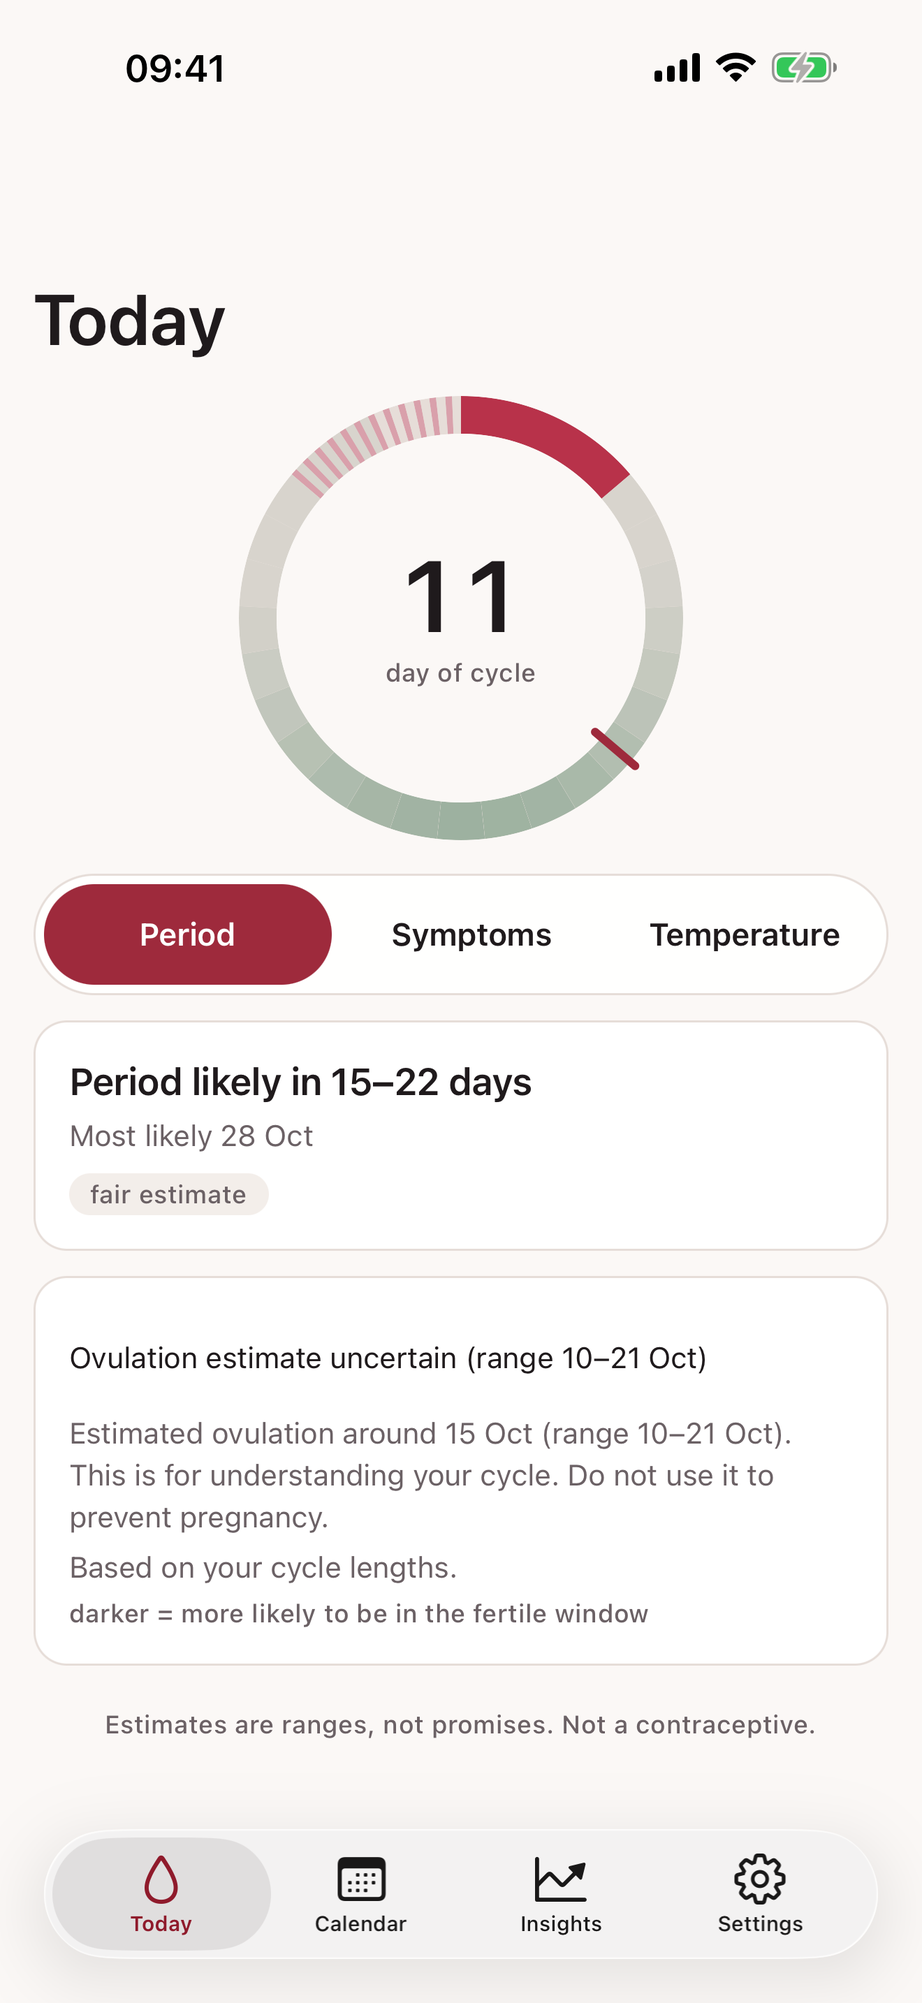
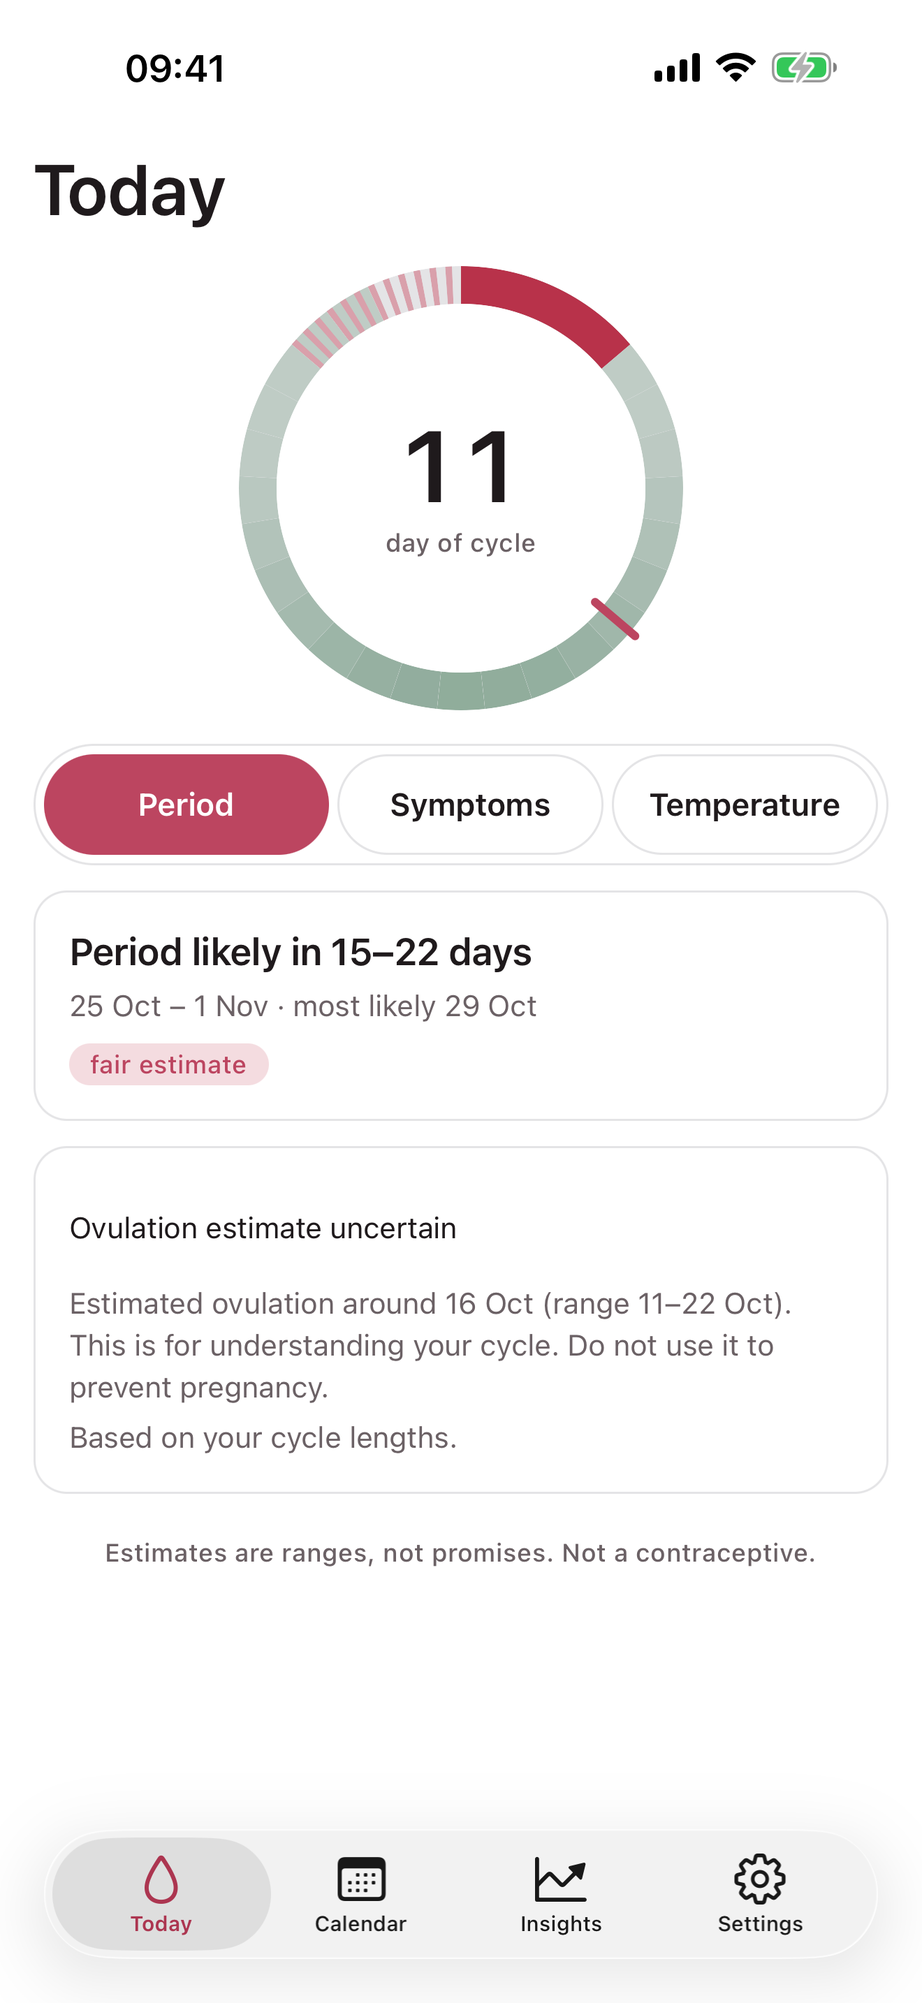
D-076 UI pass from the 2026-10-10 review: double top inset, one text-button style, estimate title, fertile band floor, sparse charts, settings subtitles, native dark mode
ui-ux-review.md items (dispositions in docs/review/action-plan.md):
- Screen: iOS no longer pads the top safe area on top of contentInsetAdjustmentBehavior (U-1)
- Button: text kind in the accent, left-aligned, 44 pt; disabled at 50% (U-2, U-3, U-27); accent chevrons on calendar and log sheet (U-14)
- Today: estimate title is the confidence word only, dates once in the fixed sentence (U-7); legend line only on Calendar (U-4); date range under the headline (U-8, widget follows); hairline on plain quick-log actions (U-9); accent confidence chip (U-11)
- Fertile band: ui/fertileAlpha.ts display floor 0.2 + 0.8p in ring and calendar underline; engine p(d) unchanged (U-10, U-19)
- Calendar legend hides the ovulation marker when none is drawn (U-18)
- Insights: sparse-chart thresholds with a quiet line (U-22); "day N so far", accent chips for unusual cycles (U-23)
- Settings root subtitles (U-30); ThemeProvider sets Appearance.setColorScheme so native views follow the theme (U-5)
- Symptom dots scale with text, visible hold hint (U-15); "I don't know" as a secondary button (U-29)
- Day detail alert button "Delete entry"; Natural Cycles import reports skipped notes (I-16)
- Maestro: flows updated for the new copy; insights scrolls to the pregnancy button; discretion re-dismisses the icon alert
- biome: apps/site astro paths excluded

Full iOS suite green (discretion on rerun); screenshots in docs/screenshots/D-076-devclient and D-076-suite-devclient.

diff --git a/apps/mobile/src/app/(tabs)/insights.tsx b/apps/mobile/src/app/(tabs)/insights.tsx
@@ -18,6 +18,9 @@ import { Segmented } from '@/ui/Segmented';
 import { Text } from '@/ui/Text';
 
 type Tab = 'history' | 'charts' | 'accuracy';
+// below these a chart is two dots on an empty axis and reads as broken (U-22, D-076)
+const MIN_LENGTH_POINTS = 2; // two closed cycles already show the band (insights.needTwo)
+const MIN_TEMP_POINTS = 6;
 
 export default function InsightsScreen() {
   const t = useTheme();
@@ -44,9 +47,10 @@ export default function InsightsScreen() {
   const acc = accuracyText(ledger);
   const empty = closed < 2;
 
+  // "typical" and "current" stay muted; anything unusual is outlined in the accent so it is seen (U-23)
   const chip = (q: string) => (
-    <View style={{ backgroundColor: t.chipBg, borderRadius: 999, paddingHorizontal: 10, paddingVertical: 2, alignSelf: 'flex-start' }}>
-      <Text variant="caption" color="textSecondary">{tr(`insights.quality.${q}`)}</Text>
+    <View style={{ backgroundColor: q === 'valid' ? t.chipBg : t.c.accentSoft, borderRadius: 999, paddingHorizontal: 10, paddingVertical: 2, alignSelf: 'flex-start' }}>
+      <Text variant="caption" color={q === 'valid' ? 'textSecondary' : 'accent'}>{tr(`insights.quality.${q}`)}</Text>
     </View>
   );
   return (
@@ -88,15 +92,17 @@ export default function InsightsScreen() {
         ) : (<>
           <Card testID="card-length">
             <Text variant="heading">{tr('insights.charts.cycleLength')}</Text>
-            <LengthChart series={series} />
-            <Text variant="caption" color="textSecondary">{tr('insights.chart.bandCaption')}</Text>
+            {series.points.length >= MIN_LENGTH_POINTS ? (<>
+              <LengthChart series={series} />
+              <Text variant="caption" color="textSecondary">{tr('insights.chart.bandCaption')}</Text>
+            </>) : <Text testID="chart-length-few" variant="bodySmall" color="textSecondary">{tr('insights.chart.fewLengths', { n: MIN_LENGTH_POINTS - series.points.length })}</Text>}
           </Card>
           <Card testID="card-temp">
             <Text variant="heading">{tr('insights.charts.temperature')}</Text>
-            {temps.points.length ? (<>
+            {temps.points.length >= MIN_TEMP_POINTS ? (<>
               <TempChart points={temps.points} coverline={temps.coverline === undefined ? undefined : fromC(temps.coverline, prefs.tempUnit)} unitLabel={`°${prefs.tempUnit}`} />
               {temps.coverline !== undefined ? <Text variant="caption" color="textSecondary">{tr('insights.chart.coverlineNote')}</Text> : null}
-            </>) : <Text variant="bodySmall" color="textSecondary">{tr('insights.chart.noTemps')}</Text>}
+            </>) : <Text testID="chart-temp-few" variant="bodySmall" color="textSecondary">{temps.points.length ? tr('insights.chart.fewTemps', { n: MIN_TEMP_POINTS - temps.points.length }) : tr('insights.chart.noTemps')}</Text>}
           </Card>
           <Card testID="card-phases">
             <Text variant="heading">{tr('insights.charts.symptomsByPhase')}</Text>

diff --git a/apps/mobile/src/app/(tabs)/settings.tsx b/apps/mobile/src/app/(tabs)/settings.tsx
@@ -26,11 +26,11 @@ export default function SettingsScreen() {
     <Screen testID="screen-settings" title={t('settings.title')}>
       <Group>
         <SettingsRow testID="settings-life" title={t('settings.lifeState.title')} description={life} onPress={go('/settings/lifestate')} />
-        <SettingsRow testID="settings-health" title={t('settings.health.title')} onPress={go('/settings/health')} />
-        <SettingsRow testID="settings-privacy" title={t('settings.privacy.title')} onPress={go('/settings/privacy')} />
-        <SettingsRow testID="settings-notifications" title={t('settings.notifications.title')} onPress={go('/settings/notifications')} />
+        <SettingsRow testID="settings-health" title={t('settings.health.title')} description={prefs.healthTypes.length ? t('settings.summary.healthN', { n: prefs.healthTypes.length }) : t('common.off')} onPress={go('/settings/health')} />
+        <SettingsRow testID="settings-privacy" title={t('settings.privacy.title')} description={`${t(prefs.appLock ? 'settings.summary.lockOn' : 'settings.summary.lockOff')} · ${t(prefs.cloudBackup ? 'settings.summary.backupOn' : 'settings.summary.backupOff')}`} onPress={go('/settings/privacy')} />
+        <SettingsRow testID="settings-notifications" title={t('settings.notifications.title')} description={t(prefs.notifications.period ? 'settings.summary.reminderOn' : 'settings.summary.reminderOff')} onPress={go('/settings/notifications')} />
         <SettingsRow testID="settings-appearance" title={t('settings.appearance.title')} description={t(`settings.appearance.theme${prefs.theme === 'system' ? 'System' : prefs.theme === 'light' ? 'Light' : 'Dark'}`)} onPress={go('/settings/appearance')} />
-        <SettingsRow testID="settings-tracking" title={t('settings.tracking.title')} onPress={go('/settings/tracking')} />
+        <SettingsRow testID="settings-tracking" title={t('settings.tracking.title')} description={t('settings.summary.symptomsN', { n: prefs.symptoms.length })} onPress={go('/settings/tracking')} />
         <SettingsRow testID="settings-about" title={t('settings.about.title')} onPress={go('/settings/about')} last />
       </Group>
     </Screen>

diff --git a/apps/mobile/src/features/today/PhaseRing.tsx b/apps/mobile/src/features/today/PhaseRing.tsx
@@ -5,6 +5,7 @@ import Svg, { Circle, G, Line, Path } from 'react-native-svg';
 import { useTheme } from '@/theme';
 import { Text } from '@/ui/Text';
 import { useFontScale } from '@/ui/useFontScale';
+import { fertileAlpha } from '@/ui/fertileAlpha';
 import { arcPath } from './arc';
 import type { RingModel } from './todayModel';
 
@@ -26,13 +27,13 @@ export function PhaseRing({ ring, dayOfCycle, phase }: { ring: RingModel; dayOfC
   const tick = ring.kind === 'cycle' ? ring.today.deg : 0;
   const rad = (tick * Math.PI) / 180;
   return (
-    <View testID="phase-ring" accessible accessibilityRole="image" accessibilityLabel={label} style={{ width: SIZE, height: SIZE, alignSelf: 'center', alignItems: 'center', justifyContent: 'center' }}>
+    <View testID="phase-ring" accessible accessibilityRole="image" accessibilityLabel={label} accessibilityElementsHidden={!label} importantForAccessibility={label ? 'auto' : 'no-hide-descendants'} style={{ width: SIZE, height: SIZE, alignSelf: 'center', alignItems: 'center', justifyContent: 'center' }}>
       <Svg width={SIZE} height={SIZE}>
         {ring.kind === 'cycle' ? (
           <G>
             <Circle cx={C} cy={C} r={R} stroke={t.c.border} strokeWidth={STROKE} fill="none" />
             {ring.fertile.map((f) => (
-              <Path key={`f${f.from.toFixed(2)}`} d={arcPath(C, C, R, f.from, f.to)} stroke={t.c.fertile} strokeOpacity={f.opacity} strokeWidth={STROKE} fill="none" />
+              <Path key={`f${f.from.toFixed(2)}`} d={arcPath(C, C, R, f.from, f.to)} stroke={t.c.fertile} strokeOpacity={fertileAlpha(f.opacity)} strokeWidth={STROKE} fill="none" />
             ))}
             {ring.predicted ? <Path d={arcPath(C, C, R, ring.predicted.from, ring.predicted.to)} stroke={t.c.periodPredicted} strokeWidth={STROKE} strokeDasharray="3 4" fill="none" /> : null}
             <Path d={arcPath(C, C, R, ring.period.from, ring.period.to)} stroke={t.c.period} strokeWidth={STROKE} fill="none" />

diff --git a/apps/mobile/src/features/today/todayModel.test.ts b/apps/mobile/src/features/today/todayModel.test.ts
@@ -37,7 +37,7 @@ describe('headline states', () => {
     expect(v.state).toBe('predicted');
     // A: next 27 Oct - 2 Nov, today 10 Oct -> 17 to 23 days
     expect(v.headline).toEqual({ key: 'today.periodLikely', params: { lo: 17, hi: 23 } });
-    expect(v.subtitle).toEqual({ key: 'today.mostLikely', params: { date: '30 Oct' } });
+    expect(v.subtitle).toEqual({ key: 'today.mostLikelyRange', params: { range: '27 Oct – 2 Nov', date: '30 Oct' } });
     expect(v.confidence).toBe('medium');
   });
   it('inside the 80% window the headline switches to "expected by"', () => {
@@ -68,15 +68,14 @@ describe('estimate card (R-01, §2.3, §8.5)', () => {
     expect(v.estimate?.legal.key).toBe('legal.estimateCard');
     expect(v.estimate?.legal.params).toMatchObject({ point: '18 Oct', lo: '13', hi: '23 Oct' });
     expect(v.estimate?.uncertain).toBe(true); // 10-day span > 6
-    expect(v.estimate?.title.key).toBe('today.ovulationUncertain');
-    expect(v.estimate?.title.params).toEqual({ lo: '13', hi: '23 Oct' });
+    expect(v.estimate?.title).toEqual({ key: 'today.ovulationUncertainShort' }); // the dates appear once, in the fixed sentence
   });
   it('a precise (LH) estimate reads "estimated around" with a confidence word', () => {
     const h = hist([28, 30, 29]);
     h.lh = [{ date: '2026-10-13', result: 'negative', provenance: 'manual' }, { date: '2026-10-14', result: 'positive', provenance: 'manual' }];
     const v = view(h, '2026-10-15');
     expect(v.estimate?.uncertain).toBe(false);
-    expect(v.estimate?.title).toEqual({ key: 'today.ovulationCollapsed', params: { point: '15 Oct', lo: '14', hi: '16 Oct', confidence: 'confident' } });
+    expect(v.estimate?.title).toEqual({ key: 'today.ovulationTitle', params: { confidence: 'confident' } });
     expect(v.estimate?.basisKey).toBe('today.estimateBasis.lh');
   });
   it('is expanded on days with a fertile-window probability of 0.2 or more, collapsed otherwise', () => {

diff --git a/apps/mobile/src/features/logging/SymptomGrid.tsx b/apps/mobile/src/features/logging/SymptomGrid.tsx
@@ -10,7 +10,9 @@ export const DEFAULT_INTENSITY = 2;
 export function SymptomGrid({ codes, values, onSet }: { codes: string[]; values: Record<string, number>; onSet: (code: string, intensity: 0 | 1 | 2 | 3) => void }) {
   const t = useTheme();
   const { t: tr } = useTranslation();
-  const wide = useFontScale() > LARGE; // two columns so words are never split
+  const scale = useFontScale();
+  const wide = scale > LARGE; // two columns so words are never split
+  const dot = Math.round(6 * Math.min(scale, 2)); // the intensity dots grow with the text (U-15)
   return (
     <View style={{ flexDirection: 'row', flexWrap: 'wrap', gap: 8 }}>
       {codes.map((code) => {
@@ -27,11 +29,12 @@ export function SymptomGrid({ codes, values, onSet }: { codes: string[]; values:
             style={{ width: wide ? '48%' : '23%', flexGrow: 1, minHeight: 72, borderRadius: t.radius.tile, paddingHorizontal: 4, alignItems: 'center', justifyContent: 'center', gap: 4, backgroundColor: on ? t.c.accentSoft : t.chipBg, borderWidth: 1.5, borderColor: on ? t.c.accent : 'transparent' }}>
             <Text variant="caption" color={on ? 'accent' : 'textPrimary'} style={{ textAlign: 'center' }}>{name}</Text>
             <View style={{ flexDirection: 'row', gap: 3 }}>
-              {[1, 2, 3].map((i) => <View key={i} style={{ width: 6, height: 6, borderRadius: 3, backgroundColor: i <= n ? t.c.accent : t.c.border }} />)}
+              {[1, 2, 3].map((i) => <View key={i} style={{ width: dot, height: dot, borderRadius: dot / 2, backgroundColor: i <= n ? t.c.accent : t.c.border }} />)}
             </View>
           </Pressable>
         );
       })}
+      <Text variant="caption" color="textSecondary" style={{ width: '100%', marginTop: 4 }}>{tr('log.longPressHint')}</Text>
     </View>
   );
 }

diff --git a/apps/mobile/src/features/logging/LogSheet.tsx b/apps/mobile/src/features/logging/LogSheet.tsx
@@ -97,11 +97,11 @@ export function LogSheet() {
     <View style={{ flex: 1, backgroundColor: t.cardBg }} testID="screen-log">
       <View style={{ flexDirection: 'row', alignItems: 'center', justifyContent: 'space-between', paddingHorizontal: GUTTER, paddingTop: Platform.OS === 'android' ? insets.top + 8 : 16, paddingBottom: 8 }}>
         <Pressable testID="log-prev" accessibilityRole="button" accessibilityLabel={tr('log.previousDay')} onPress={() => setDay(addDays(day, -1))} style={{ minWidth: 48, minHeight: 48, alignItems: 'center', justifyContent: 'center' }}>
-          <Text variant="heading">‹</Text>
+          <Text variant="heading" color="accent" style={{ fontSize: 28, lineHeight: 32 }}>‹</Text>
         </Pressable>
         <Text variant="heading" accessibilityRole="header" testID="log-title" style={{ flex: 1, textAlign: 'center' }}>{formatLong(day)}</Text>
         <Pressable testID="log-next" accessibilityRole="button" accessibilityLabel={tr('log.nextDay')} aria-disabled={isToday} disabled={isToday} onPress={() => setDay(addDays(day, 1))} style={{ minWidth: 48, minHeight: 48, alignItems: 'center', justifyContent: 'center', opacity: isToday ? 0.3 : 1 }}>
-          <Text variant="heading">›</Text>
+          <Text variant="heading" color="accent" style={{ fontSize: 28, lineHeight: 32 }}>›</Text>
         </Pressable>
         <Pressable testID="log-done" accessibilityRole="button" accessibilityLabel={tr('common.done')} onPress={() => router.back()} style={{ minWidth: 56, minHeight: 48, alignItems: 'flex-end', justifyContent: 'center' }}>
           <Text variant="heading" color="accent">{tr('common.done')}</Text>

diff --git a/apps/mobile/src/ui/Button.tsx b/apps/mobile/src/ui/Button.tsx
@@ -6,14 +6,14 @@ import { Text } from './Text';
 export function Button({ label, kind = 'primary', ...rest }: Omit<PressableProps, 'children'> & { label: string; kind?: 'primary' | 'secondary' | 'text' | 'destructive' }) {
   const t = useTheme();
   const bg = kind === 'primary' ? t.c.accent : kind === 'secondary' ? t.chipBg : 'transparent';
-  const fg = kind === 'primary' ? (t.scheme === 'dark' ? '#3A0A14' : '#FFFFFF') : kind === 'destructive' ? t.c.period : t.c.textPrimary;
+  const fg = kind === 'primary' ? (t.scheme === 'dark' ? '#3A0A14' : '#FFFFFF') : kind === 'destructive' ? t.c.period : kind === 'text' ? t.c.accent : t.c.textPrimary;
   return (
     <Pressable
       accessibilityRole="button"
       aria-disabled={rest.disabled ?? undefined}
       accessibilityLabel={rest.accessibilityLabel ?? label}
       {...rest}
-      style={({ pressed }) => [{ minHeight: 48, paddingHorizontal: 20, borderRadius: 999, alignItems: 'center', justifyContent: 'center', backgroundColor: bg, opacity: pressed ? 0.7 : 1 }, kind === 'text' ? { minHeight: 44 } : null]}>
+      style={({ pressed }) => [{ minHeight: 48, paddingHorizontal: 20, borderRadius: 999, alignItems: 'center', justifyContent: 'center', backgroundColor: bg, opacity: pressed ? 0.7 : rest.disabled ? 0.5 : 1 }, kind === 'text' ? { minHeight: 44, alignSelf: 'flex-start', paddingHorizontal: 8 } : null]}>
       <Text variant="heading" style={{ color: fg, fontSize: 16, lineHeight: 22 }}>{label}</Text>
     </Pressable>
   );

diff --git a/apps/mobile/src/features/today/todayModel.ts b/apps/mobile/src/features/today/todayModel.ts
@@ -130,7 +130,7 @@ export function buildToday(i: TodayInput): TodayModel {
     subtitle = { key: 'today.mostLikely', params: { date: formatDay(next.point) } };
   } else {
     headline = { key: 'today.periodLikely', params: { lo: diffDays(next.i80.lo, i.today), hi: diffDays(next.i80.hi, i.today) } };
-    subtitle = { key: 'today.mostLikely', params: { date: formatDay(next.point) } };
+    subtitle = { key: 'today.mostLikelyRange', params: { range: formatRange(next.i80.lo, next.i80.hi), date: formatDay(next.point) } };
   }
 
   // ovulation estimate card
@@ -142,9 +142,8 @@ export function buildToday(i: TodayInput): TodayModel {
     const todayP = p.fertileDays?.find((f) => f.date === i.today)?.pInWindow ?? 0;
     estimate = {
       uncertain, confidence: o.confidence, expanded: todayP >= EXPAND_P, basisKey: `today.estimateBasis.${o.basis}`,
-      title: uncertain
-        ? { key: 'today.ovulationUncertain', params: { lo: r.lo, hi: r.hi } }
-        : { key: 'today.ovulationCollapsed', params: { point: formatDay(o.point), lo: r.lo, hi: r.hi, confidence: word(o.confidence) } },
+      // the title names the confidence only; the fixed §2.3 sentence below it carries the dates once (U-7, D-076)
+      title: uncertain ? { key: 'today.ovulationUncertainShort' } : { key: 'today.ovulationTitle', params: { confidence: word(o.confidence) } },
       legal: { key: 'legal.estimateCard', params: { point: formatDay(o.point), lo: r.lo, hi: r.hi } },
     };
   }

diff --git a/apps/mobile/src/theme/index.tsx b/apps/mobile/src/theme/index.tsx
@@ -1,7 +1,7 @@
 // Theme provider: ui-tokens by colour scheme and platform treatment (PLAN.md §9.1-9.3). Brand wine is not here (splash, icon, About only).
 import { colors, m3, radii, type ColorToken } from '@sanguine/ui-tokens';
-import { createContext, type ReactNode, useContext, useMemo } from 'react';
-import { Platform, useColorScheme } from 'react-native';
+import { createContext, type ReactNode, useContext, useEffect, useMemo } from 'react';
+import { Appearance, Platform, useColorScheme } from 'react-native';
 import type { ThemePref } from '@/data/prefs';
 
 export type Scheme = 'light' | 'dark';
@@ -41,5 +41,7 @@ export function ThemeProvider({ pref, children }: { pref: ThemePref; children: R
   const system = useColorScheme();
   const scheme: Scheme = pref === 'system' ? (system === 'dark' ? 'dark' : 'light') : pref;
   const theme = useMemo(() => buildTheme(scheme, Platform.OS === 'android' ? 'android' : 'ios'), [scheme]);
+  // native views (the tab bar, system pickers, alerts) read the app-level scheme, so a forced light or dark theme reaches them too (U-5, D-076)
+  useEffect(() => { Appearance.setColorScheme(pref === 'system' ? 'unspecified' : pref); }, [pref]);
   return <Ctx.Provider value={theme}>{children}</Ctx.Provider>;
 }

diff --git a/apps/mobile/src/app/settings/privacy.tsx b/apps/mobile/src/app/settings/privacy.tsx
@@ -47,7 +47,8 @@ export default function PrivacyScreen() {
           await refresh();
           // imported symptoms appear in the logging sheet too, not only in the day detail
           if (r.kind === 'natural_cycles' && r.symptoms.some((c) => !prefs.symptoms.includes(c))) await updatePrefs({ symptoms: [...new Set([...prefs.symptoms, ...r.symptoms])] });
-          const done = t('settings.privacy.importDone', { n: r.kind === 'sanguine' ? r.result.imported : r.result.added });
+          const done = t('settings.privacy.importDone', { n: r.kind === 'sanguine' ? r.result.imported : r.result.added })
+            + (r.kind === 'natural_cycles' && r.result.notesDropped > 0 ? ` ${t('settings.privacy.importNotesDropped', { n: r.result.notesDropped })}` : '');
           return r.kind === 'natural_cycles' && r.problems.length > 0 ? `${done}\n${t('settings.privacy.importSkipped')} ${r.problems.slice(0, 5).join('; ')}${r.problems.length > 5 ? ` ${t('settings.privacy.importMore', { n: r.problems.length - 5 })}` : ''}` : done;
         })} />
         <SettingsRow testID="privacy-backup" title={t('settings.privacy.backup')} description={t('settings.privacy.backupDesc')} onPress={() => router.push('/settings/backup' as never)} />

diff --git a/apps/mobile/src/features/onboarding/OnboardingFlow.tsx b/apps/mobile/src/features/onboarding/OnboardingFlow.tsx
@@ -163,7 +163,7 @@ export function OnboardingFlow() {
         {step === TOTAL_STEPS - 1 && !ok ? <Text variant="bodySmall" color="textSecondary" testID="finish-hint" style={{ textAlign: 'center' }} accessibilityLiveRegion="polite">{tr(explicit ? 'onboarding.s5.finishHintBoth' : 'onboarding.s5.finishHint')}</Text> : null}
         <Button testID="onboarding-continue" label={step === TOTAL_STEPS - 1 ? tr('common.finish') : tr('common.continue')} disabled={!ok || busy} onPress={next} />
         {step === 2 || step === 3 ? (
-          <Button testID="onboarding-skip" kind="text" label={step === 2 ? tr('common.dontKnow') : tr('common.skip')} onPress={() => { if (step === 2) { setLastChoice(undefined); } else { setA({ ...a, lifeState: 'none' }); } setStep(step + 1); }} />
+          <Button testID="onboarding-skip" kind={step === 2 ? 'secondary' : 'text'} label={step === 2 ? tr('common.dontKnow') : tr('common.skip')} onPress={() => { if (step === 2) { setLastChoice(undefined); } else { setA({ ...a, lifeState: 'none' }); } setStep(step + 1); }} />
         ) : null}
         {step > 0 ? <Button testID="onboarding-back" kind="text" label={tr('common.back')} onPress={() => setStep(step - 1)} /> : null}
       </View>

diff --git a/apps/mobile/src/features/today/cards.tsx b/apps/mobile/src/features/today/cards.tsx
@@ -24,8 +24,8 @@ export function ConfidenceBadge({ word }: { word: string }) {
   const t = useTheme();
   if (!word) return null;
   return (
-    <View style={{ alignSelf: 'flex-start', backgroundColor: t.chipBg, borderRadius: 999, paddingHorizontal: 10, paddingVertical: 2, marginTop: 4 }}>
-      <Text variant="caption" color="textSecondary">{word}</Text>
+    <View style={{ alignSelf: 'flex-start', backgroundColor: t.c.accentSoft, borderRadius: 999, paddingHorizontal: 10, paddingVertical: 2, marginTop: 4 }}>
+      <Text variant="caption" color="accent">{word}</Text>
     </View>
   );
 }
@@ -51,10 +51,7 @@ export function EstimateCard({ m }: { m: EstimateModel }) {
         <Text variant="bodySmall">{msg(m.title)}</Text>
       </Pressable>
       <Text variant="bodySmall" color="textSecondary" testID="estimate-legal">{msg(m.legal)}</Text>
-      {open ? (<>
-        <Text variant="bodySmall" color="textSecondary">{t(m.basisKey)}</Text>
-        <Text variant="caption" color="textSecondary">{t('today.legendFertile')}</Text>
-      </>) : null}
+      {open ? <Text variant="bodySmall" color="textSecondary">{t(m.basisKey)}</Text> : null}
     </Card>
   );
 }
